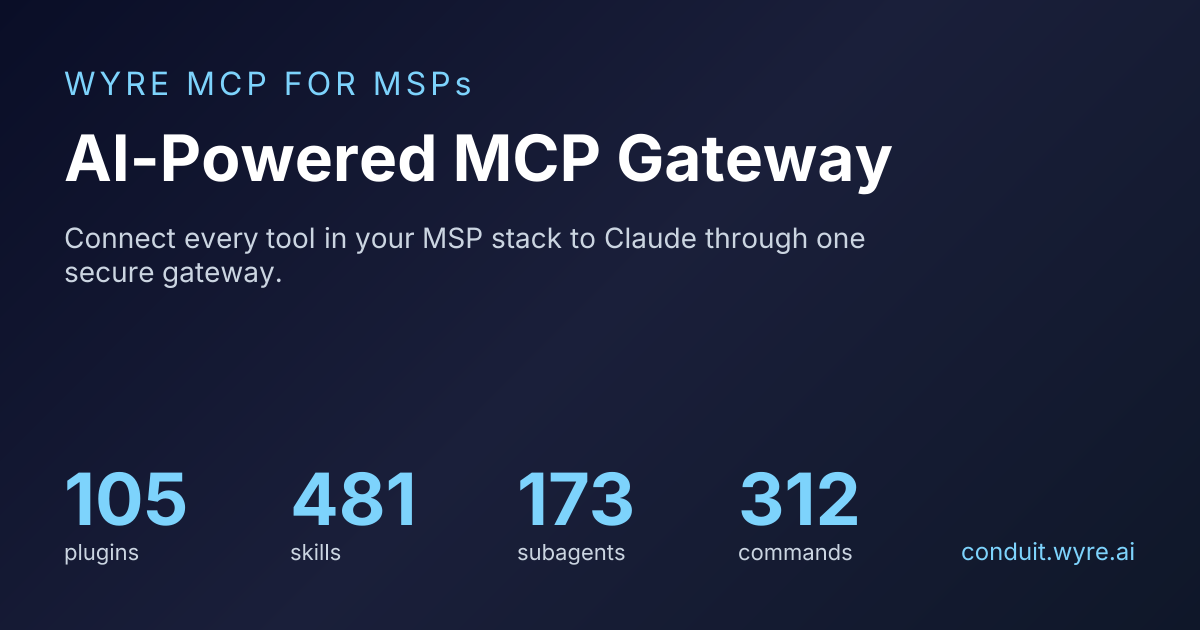
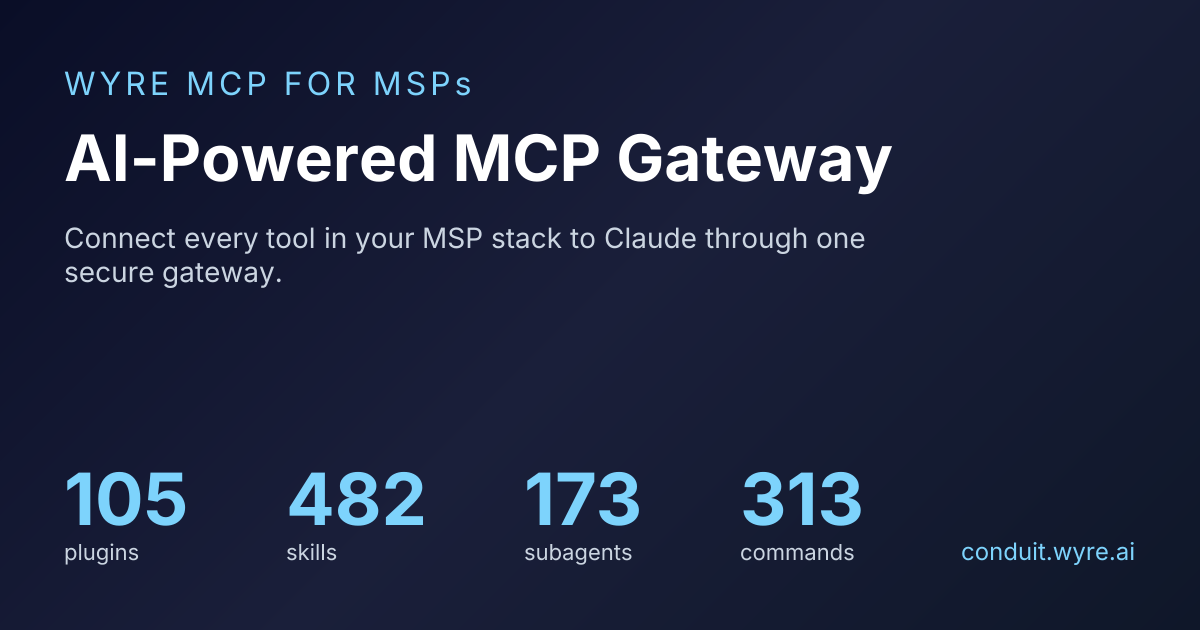
feat(ops-pack): add repeat-ticket-root-cause skill and /repeat-tickets command (WYREAI-1626)
Read-only 90-day recurrence analysis over open and closed PSA tickets,
grouped by device, user and issue type, with one draft problem ticket per
pattern. Bumps ops-pack to 0.2.1 and marketplace to 1.44.0.

Claude-Session: https://claude.ai/code/session_01TSPBH4dciHwEHh8MnRWLb7

Changed region(s): [[0.4317, 0.754, 0.555, 0.9048], [0.6167, 0.754, 0.74, 0.9048], [0.2467, 0.754, 0.37, 0.9048]]

diff --git a/msp-claude-plugins/docs/src/data/plugins.ts b/msp-claude-plugins/docs/src/data/plugins.ts
@@ -2715,11 +2715,13 @@ export const plugins: Plugin[] = [
     features: [
       'Board Hygiene',
       'Dispatch Prioritization',
+      'Repeat Ticket Root Cause',
       'Sla Escalation Playbooks'
     ],
     skills: [
       { name: 'board-hygiene', description: 'Board-wide ticket maintenance, distinct from working any single ticket: stale-ticket detection with per-status staleness thresholds, the Waiting-on-Client rot case and its three valid resolutions, duplicate/related-ticket detection signals and safe linking, and technician queue-balance assessment weighted by more than raw ticket count.' },
       { name: 'dispatch-prioritization', description: 'Priority scoring and assignment for an unassigned PSA ticket queue: the scoring factors (SLA proximity, client tier, ticket age, technician load, skill/category match), how to combine them into an explainable ranked order rather than a black-box formula, and the tool-discovery pattern for finding which PSA and RMM connectors are actually live before calling any vendor\'s tools.' },
+      { name: 'repeat-ticket-root-cause', description: 'Finds problems that keep coming back by grouping 90 days of PSA tickets, closed ones included, by device, user and normalized issue type: how to pull the history from each PSA family, what counts as a pattern, how to separate recurrence from a one-off burst or a single noisy user, how to propose one permanent fix per pattern, and how to hand the result over as a draft problem ticket for a technician to approve.' },
       { name: 'sla-escalation-playbooks', description: 'A cross-PSA escalation framework for SLA pressure: how each PSA family (Autotask, HaloPSA, ConnectWise Manage, Syncro, Kaseya BMS) models SLA/priority state and where breach risk lives in each, a normalized breach-risk state model (healthy, at risk, breached-response, breached-resolution) with the default escalation action per state, how notification audience shifts by contract tier, and the evidence to gather before paging anyone.' }
     ],
     agents: [
@@ -2730,6 +2732,7 @@ export const plugins: Plugin[] = [
     commands: [
       { name: '/eod-handoff', description: 'Generate an end-of-day handoff summary - open high-priority tickets, items awaiting next-shift action, and overnight on-call context if available' },
       { name: '/morning-huddle', description: 'Daily kickoff report - SLA-at-risk count, unassigned queue size, yesterday\'s closed vs. opened, and any overnight escalations' },
+      { name: '/repeat-tickets', description: 'Find recurring problems across 90 days of closed and open tickets and draft one problem ticket per pattern' },
       { name: '/sla-breaches', description: 'List tickets currently breaching or about to breach SLA within a time window, sorted by urgency' }
     ],
     apiInfo: {

diff --git a/msp-claude-plugins/ops-pack/skills/repeat-ticket-root-cause/SKILL.md b/msp-claude-plugins/ops-pack/skills/repeat-ticket-root-cause/SKILL.md
@@ -1,0 +1,203 @@
+---
+name: "Repeat Ticket Root Cause"
+description: >
+  Finds problems that keep coming back by grouping 90 days of PSA tickets,
+  closed ones included, by device, user and normalized issue type: how to pull
+  the history from each PSA family, what counts as a pattern, how to separate
+  recurrence from a one-off burst or a single noisy user, how to propose one
+  permanent fix per pattern, and how to hand the result over as a draft
+  problem ticket for a technician to approve.
+when_to_use: >-
+  When looking across closed tickets, not just the open board, for recurring
+  problems. Use when: repeat tickets, recurring issue, same problem every
+  week, keeps coming back, printer every Monday, VPN broken after every patch,
+  root cause, problem ticket, permanent fix, chronic device, repeat caller,
+  ticket recurrence, top ticket generators.
+---
+
+# Repeat Ticket Root Cause
+
+## Overview
+
+Each ticket is closed correctly and the problem still returns. A printer that
+jams every Monday, a VPN client that breaks after each patch cycle, one laptop
+that blue-screens twice a month: every individual ticket gets a fix and the
+client gets no relief. This skill reads closed history across a 90-day window,
+finds the recurrences, and proposes one permanent fix per pattern. It is
+read-only and built to run on a schedule. The only output that leaves the
+skill is a draft problem ticket for a technician to approve.
+
+## Anti-triggers
+
+- **Duplicates and stale tickets on the open board**, use `ops-pack-board-hygiene`.
+  That skill looks at what is open now; this one looks at what was closed and
+  came back.
+- **Investigating one live incident across vendors**, use
+  `shared-skills-incident-correlation`.
+- **Predicting hardware failure from RMM telemetry**, use the
+  `device-failure-early-warning` skill in this pack where it is installed.
+  This skill works from ticket text and links, not telemetry.
+
+## Key Concepts
+
+### Three grouping keys
+
+Group the same 90-day set three ways and keep the three views separate, because
+each points at a different kind of fix.
+
+| Key | What a cluster usually means | Typical permanent fix |
+|---|---|---|
+| Device (configuration item or asset linked to the ticket) | Failing hardware, a bad image, a leftover driver | Replace, reimage, retire |
+| User (contact) | Training gap, a profile problem, or a user who is simply the only one who reports | Fix the profile, train, or confirm it is not a pattern |
+| Issue type (normalized subject, plus category and sub-category) | Systemic: a bad patch, a flaky service, a missing standard | Change the standard, the patch ring or the service, then document it |
+
+Then look for the intersection. "VPN" tickets across 14 different users and 14
+different devices is an issue-type pattern. The same three tickets on one
+device is a device pattern. Report the key that explains the most tickets
+first.
+
+### What counts as a pattern
+
+Defaults to use when the org has not documented its own, and say which you used:
+
+- **3 or more tickets** in 90 days on the same key.
+- At least **2 distinct dates** more than 24 hours apart. One incident that
+  generated five tickets in an afternoon is a burst, not a recurrence. Hand it
+  to `ops-pack-board-hygiene` as duplicates.
+- A fresh pattern needs a **closed-and-returned** instance. If every ticket in
+  the cluster is still open, report it as an open cluster rather than a repeat.
+
+Also look for **cadence**. Tickets whose creation dates fall on the same
+weekday or the same time of month point at something scheduled: a Monday
+backup job, a patch window, a license sync, a scheduled task. Report the
+cadence as the lead clue, because it is cheaper to confirm than a root cause.
+
+### Normalizing issue type
+
+Subjects are free text. Group on, in order of reliability:
+
+1. The PSA's own category, sub-category or issue type, when the technicians
+   fill it in consistently.
+2. The linked asset or configuration item.
+3. Fuzzy subject match after stripping client names, ticket numbers and
+   hostnames ("can't print" and "printer offline" are one cluster).
+
+If a PSA's category field is mostly blank or "Other", say that the grouping
+fell back to subject text and the clusters are weaker for it.
+
+### Not a pattern
+
+- Request types that recur by design: onboarding, offboarding and password
+  resets. Exclude them and report them as volume only.
+- Alert-generated tickets from monitoring. They recur because the alert
+  recurs. If the alert source is the cluster, the fix is the alert rule or the
+  underlying condition, and the ticket volume is a symptom.
+- A single user producing most of the tickets for a client. Say so. It is a
+  conversation to have, not an infrastructure fix.
+
+## Pulling closed-ticket history
+
+Discover the connected PSA's tools with `conduit__search_tools` first. The
+window is 90 days of tickets in any status. The tools differ in how they
+reach closed tickets:
+
+| PSA | Tool | How to reach closed tickets in the window |
+|---|---|---|
+| Autotask | `autotask_search_tickets` | Defaults to open tickets only. Pass `status` for the completed status ID, one status per call, with `createdAfter`. Discover status IDs with `autotask_list_ticket_statuses`. Max 500 per page. Linked CI and notes need `autotask_get_ticket_details` per ticket. |
+| ConnectWise PSA | `cw_search_tickets` | Use `conditions` with a date and no status filter, for example `dateEntered > [2026-08-20T00:00:00Z]`. Page with `page` and `pageSize` up to 1000. Configurations per ticket come from `cw_get_ticket_configurations`. |
+| HaloPSA | `halopsa_tickets_list` | `closed_only: true` with `dateoccurred_start` and `dateoccurred_end`, paged with `page_no`. |
+| SuperOps | `superops_tickets_list` | Filters by status, priority, client and technician, but has no date filter. Pull the Resolved and Closed statuses per client and drop tickets outside the window yourself. |
+
+Pull per client, not account-wide, so a very large tenant does not hit page
+limits and each cluster stays inside one client. Linking tickets to assets is
+the strongest grouping signal and the most unevenly filled field, so report
+what share of tickets had a linked device.
+
+## Common Workflows
+
+### Weekly sweep (all clients)
+
+1. Discover the PSA tools. Resolve status and category IDs from the PSA's own
+   list tools rather than assuming their meaning.
+2. For each client, pull the 90-day window in any status, with device, contact,
+   category, subject, created and closed dates.
+3. Drop excluded request types and alert-generated tickets into a "volume
+   only" count.
+4. Group three ways, apply the pattern thresholds, and compute cadence.
+5. For each pattern, work out the likely root cause from the ticket notes and
+   resolutions already in the history. Compare what technicians did each time:
+   the same workaround repeated four times is the clearest sign of a missing
+   permanent fix.
+6. Rank patterns by cost: tickets multiplied by time logged, where the PSA
+   exposes time entries (`autotask_search_time_entries`,
+   `cw_search_time_entries`), otherwise by ticket count, and say which.
+7. Compare to last week's run, if one was kept, and mark each pattern as
+   new, continuing or resolved. A pattern with no new tickets in 30 days
+   after a fix is resolved.
+8. Produce the report and drafts below.
+
+### One-client or one-device drill-down
+
+Run steps 2 to 7 for the given client or device only, and include the full
+ticket list behind each pattern, newest first.
+
+## Output
+
+Per client, patterns ranked by cost:
+
+```
+Acme Co: 3 patterns, 17 tickets of 64 in the last 90 days (27%)
+
+1. Issue type: VPN client fails after patching (9 tickets, 7 users, 5 dates)
+   Cadence: 8 of 9 created within 3 days after the second Tuesday
+   Same workaround each time: reinstall VPN client (9 of 9 resolutions)
+   Likely root cause: patch ring pushes the OS update before the VPN client
+   update. Evidence: ticket notes on #48213, #48977, #49510.
+   Proposed permanent fix: hold the VPN client in the same patch ring as the
+   OS update, or move it ahead of it.
+   Time cost: 11.5 h logged
+```
+
+Each pattern states the key, the counts, the cadence if any, the repeated
+workaround, the root cause and what that rests on, one proposed permanent
+fix, and the cost. Where the cause is a guess, write "hypothesis" and name the
+check that would confirm it.
+
+### Draft problem ticket
+
+One draft per pattern, never per ticket. Include the linked ticket numbers,
+the evidence above and the proposed fix, and leave the assignee empty.
+Show the draft and stop. Create it only after a technician approves, using the
+PSA's create-ticket tool. Where the PSA has a Problem ticket type (Autotask's
+`autotask_create_ticket` takes a `ticketType` picklist value; discover valid
+IDs with `autotask_get_field_info`), use it. Otherwise create a normal ticket
+and prefix the title with "Problem:". Do not close or merge the original
+tickets.
+
+## Error Handling
+
+- **No PSA connected:** say there is no ticket history to analyze and stop.
+- **No closed tickets returned:** check that the closed-status filter was
+  applied. On Autotask an omitted `status` returns only open tickets, which
+  gives a false "no repeats" result.
+- **Window not fully covered:** if a PSA call paged out or errored partway, say
+  which clients were partial and exclude them from the ranking instead of
+  ranking a truncated count.
+- **Few or no linked devices:** fall back to category and subject grouping and
+  state the share of tickets that had a device.
+- **Notes or resolutions not exposed:** report the pattern and count without a
+  root cause, and name the field that was missing.
+
+## Best Practices
+
+- State the window, thresholds and grouping fields used in every report, so
+  two runs can be compared.
+- Report what the data shows and what it does not. A cluster with no
+  resolution text supports "this recurs", not "this is why".
+
+## Related Skills
+
+- [Board Hygiene](../board-hygiene/SKILL.md): duplicate detection on the open
+  board; the burst case this skill excludes
+- [SLA Escalation Playbooks](../sla-escalation-playbooks/SKILL.md): when a
+  recurring problem also keeps putting tickets at SLA risk

diff --git a/CHANGELOG.md b/CHANGELOG.md
@@ -9,6 +9,8 @@ and this project adheres to [Semantic Versioning](https://semver.org/spec/v2.0.0
 
 ### Added
 
+- **Marketplace 1.44.0, `ops-pack` 0.2.1: Repeat Ticket Root Cause ([WYREAI-1626](https://linear.app/wyre-ai/issue/WYREAI-1626)).** Adds `repeat-ticket-root-cause`, a read-only, schedulable skill that groups 90 days of PSA tickets, closed ones included, by device, user and issue type to find recurring problems (a printer every Monday, a VPN client after each patch). It documents how to reach closed history in Autotask, ConnectWise PSA, HaloPSA and SuperOps, pattern thresholds that separate recurrence from a burst, cadence detection, and one draft problem ticket per pattern for a technician to approve. New command `/ops-pack:repeat-tickets`. Feeds the client health score in [#287](https://github.com/WYRE-AI/msp-claude-plugins/pull/287). Version 0.2.1 assumes #287 (0.2.0) lands first.
+
 - **Marketplace 1.43.0, `secops-pack` 0.1.12: ScreenConnect Session Hijack Response RMM+ family extension check.** Adds a read-only check for the five third-party extensions ConnectWise disabled as a precaution on 11/11/2026: Labtech Plus, RMM Plus, RMM+, RMM Plus Password Link, and RMM+ Password Link. The skill looks for those exact display names in the manual ScreenConnect panel export and in already-allowed, client-bound RMM installed-software inventory (including Datto `auditType=software` only). Any hit is flagged as a compromise indicator; disable and removal stay out of band. Existing read-only limits are unchanged.
 
 - **Marketplace 1.41.0, `secops-pack` 0.1.10: ScreenConnect Session Hijack Response ([WYREAI-740](https://linear.app/wyre-ai/issue/WYREAI-740/conduit-skill-screenconnect-session-hijack-response-active-nov-11)).** Adds a read-only, per-client investigation of panel abuse, rogue clients, and technician reverse-pivot exposure, starting with the MSP's own environment. Includes dated community IOCs, manual panel evidence requirements, verified source limits, and operator-approved rotation and out-of-band cleanup plans.

diff --git a/msp-claude-plugins/ops-pack/commands/repeat-tickets.md b/msp-claude-plugins/ops-pack/commands/repeat-tickets.md
@@ -1,0 +1,32 @@
+---
+description: Find recurring problems across 90 days of closed and open tickets and draft one problem ticket per pattern
+argument-hint: "[client]"
+arguments: [client]
+---
+
+# Repeat Tickets
+
+Groups the last 90 days of PSA tickets, closed ones included, by device, user
+and issue type to find problems that keep returning, using the
+`repeat-ticket-root-cause` skill. Read-only.
+
+## Prerequisites
+
+- WYRE MCP Gateway connected (`conduit`) with a PSA connector. Without a PSA
+  there is no ticket history to analyze.
+
+## Steps
+
+1. Call `conduit__search_tools` to find the connected PSA and its ticket tools.
+2. Resolve scope: `client` if given, otherwise every client, one client at a
+   time.
+3. Follow the `repeat-ticket-root-cause` skill's weekly sweep workflow.
+4. Return the ranked patterns per client with a draft problem ticket for each.
+5. Create problem tickets only after the user approves them.
+
+## Examples
+
+```
+/ops-pack:repeat-tickets
+/ops-pack:repeat-tickets "Acme Co"
+```

diff --git a/msp-claude-plugins/ops-pack/README.md b/msp-claude-plugins/ops-pack/README.md
@@ -31,6 +31,9 @@ explicitly rather than guessing.
 - `dispatch-prioritization` — how to triage and score an unassigned ticket queue
 - `board-hygiene` — stale-ticket detection, duplicate linking, status-transition
   sanity, and queue-balance checks
+- `repeat-ticket-root-cause` — recurring-problem detection across 90 days of
+  closed and open tickets, grouped by device, user and issue type, with one
+  draft problem ticket per pattern
 
 **Agents**
 - `board-health-auditor` — full board-health sweep with a scored report, worst
@@ -45,6 +48,8 @@ explicitly rather than guessing.
 - `/ops-pack:sla-breaches [window]` — tickets breaching or about to breach SLA
   within a window (default `24h`)
 - `/ops-pack:eod-handoff` — end-of-day handoff summary (no arguments)
+- `/ops-pack:repeat-tickets [client]` — recurring problems across the last 90
+  days, one draft problem ticket per pattern
 
 ## Install
 
